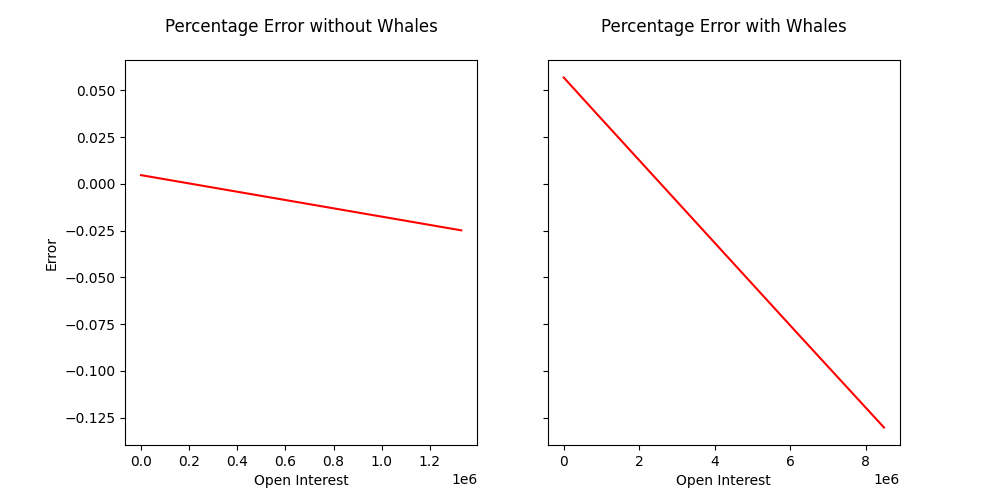
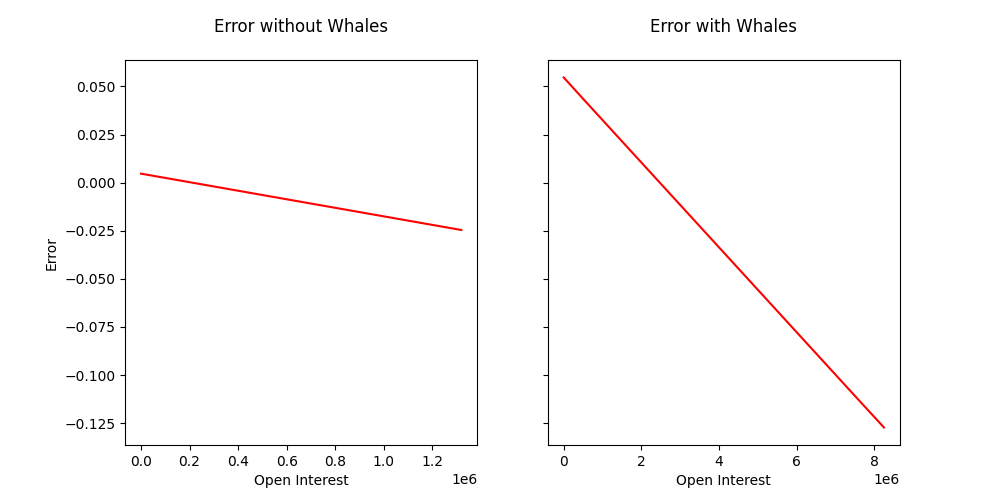
Fixed mistake in plot 3

diff --git a/trading_mechanisms/analysis.py b/trading_mechanisms/analysis.py
@@ -80,7 +80,7 @@ def plot3(R, p, alpha, open_interest):
     axs[0].plot(d_mkt, err, color='red')
     axs[0].set_xlabel("Open Interest")
     axs[0].set_ylabel("Error")
-    axs[0].set_title("Percentage Error without Whales", y=1.05)
+    axs[0].set_title("Error without Whales", y=1.05)
     
     # With whales
     d_mkt, f_mkt = find_equilibrium(open_interest, \
@@ -90,7 +90,7 @@ def plot3(R, p, alpha, open_interest):
     err = (f_mkt - y)/f_mkt
     axs[1].plot(d_mkt, err, color='red')
     axs[1].set_xlabel("Open Interest")
-    axs[1].set_title("Percentage Error with Whales", y=1.05)
+    axs[1].set_title("Error with Whales", y=1.05)
     
     fig.savefig(PATH + "plot3.png")
     return
@@ -227,7 +227,7 @@ def main():
     print("Generating plot 2... ")
     plot2(R, p, alpha, open_interest)
 
-    # (3) Percentage error of closed form with and without whales
+    # (3) Error of closed form with and without whales
     print("Generating plot 3... ")
     plot3(R, p, alpha, open_interest)
 
